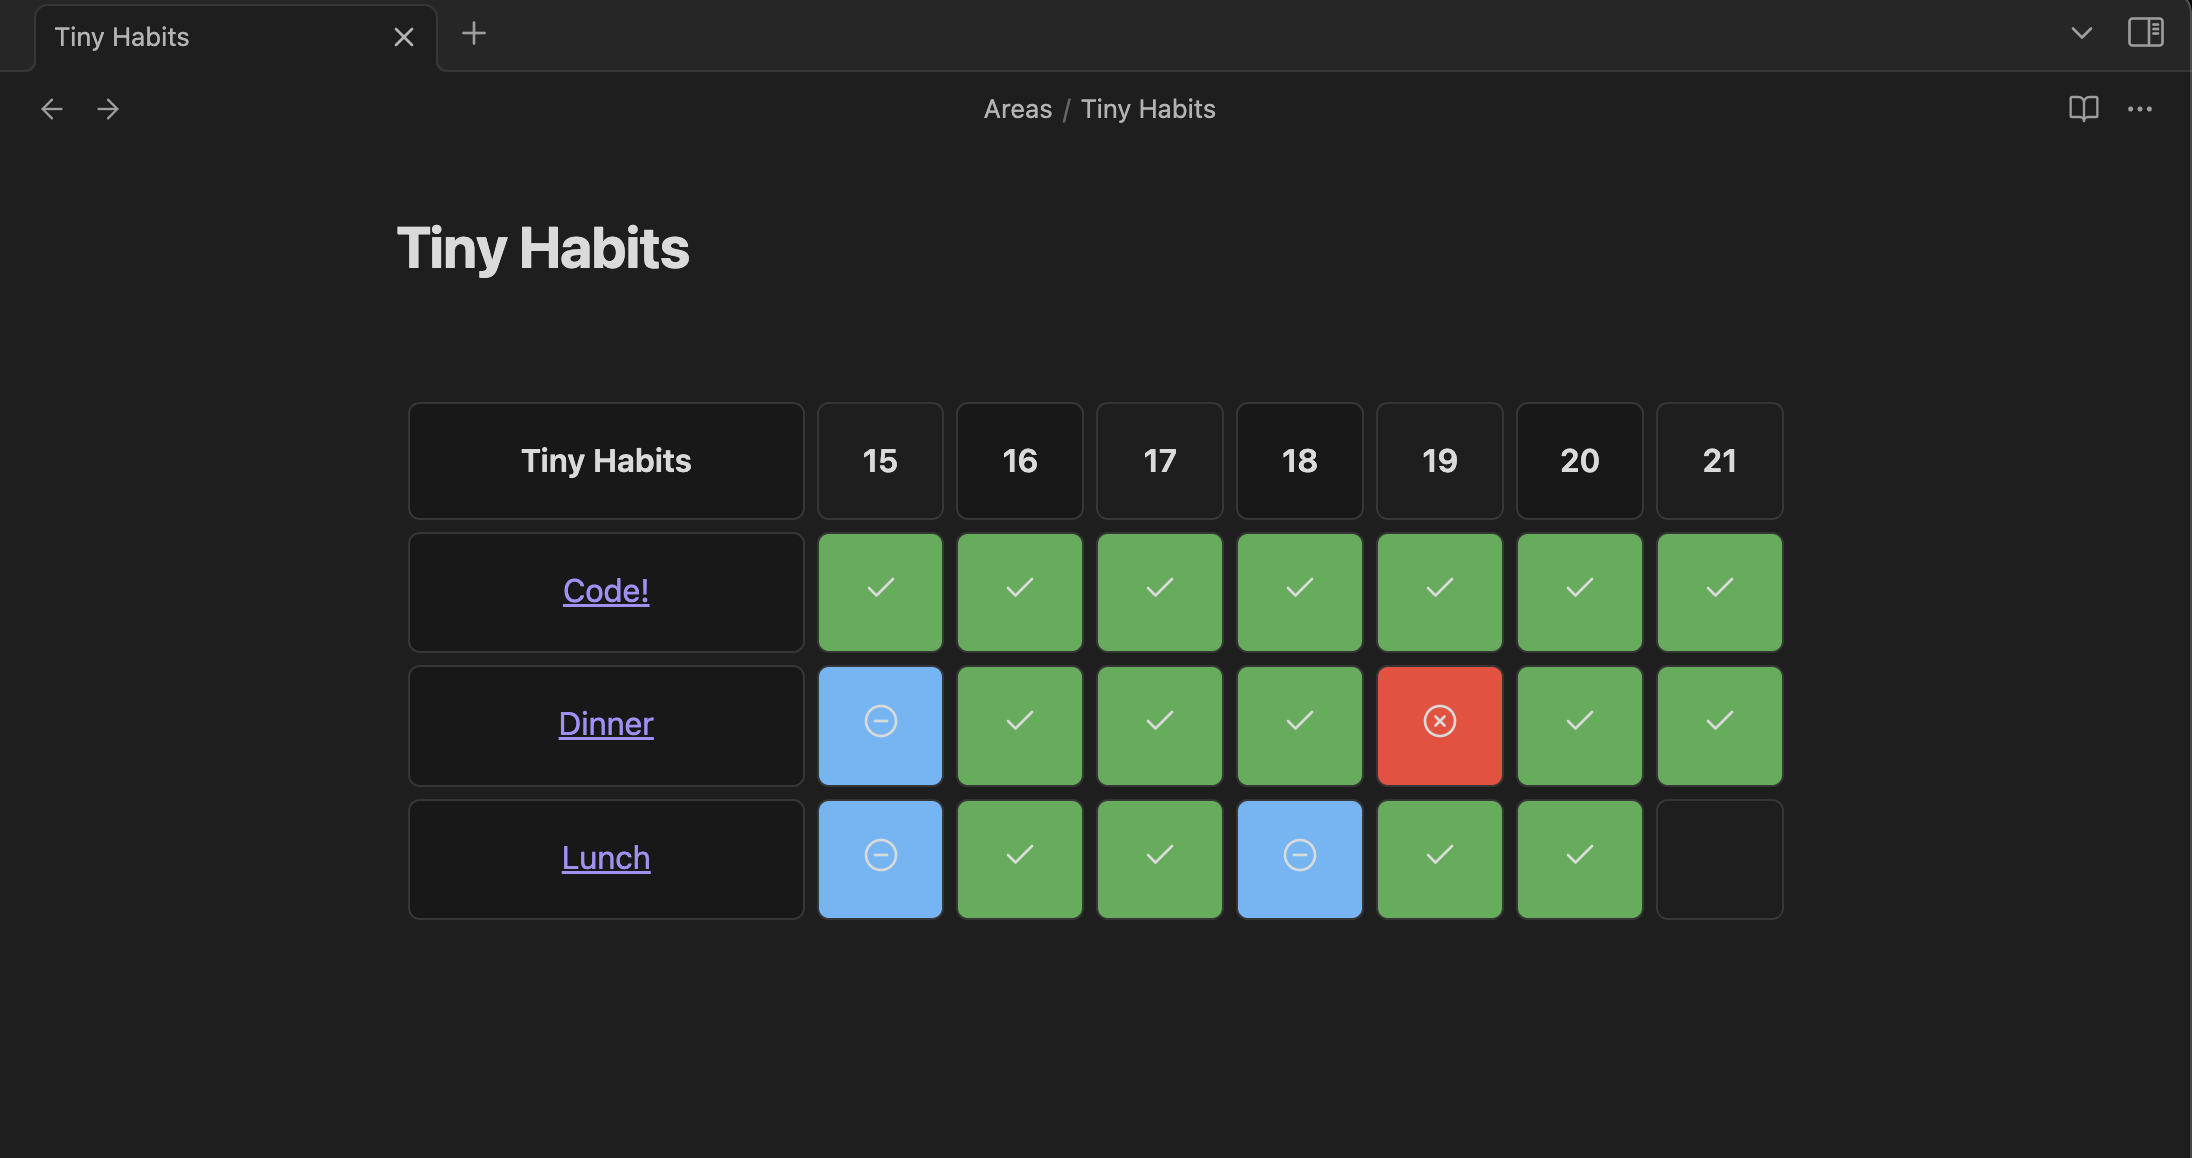
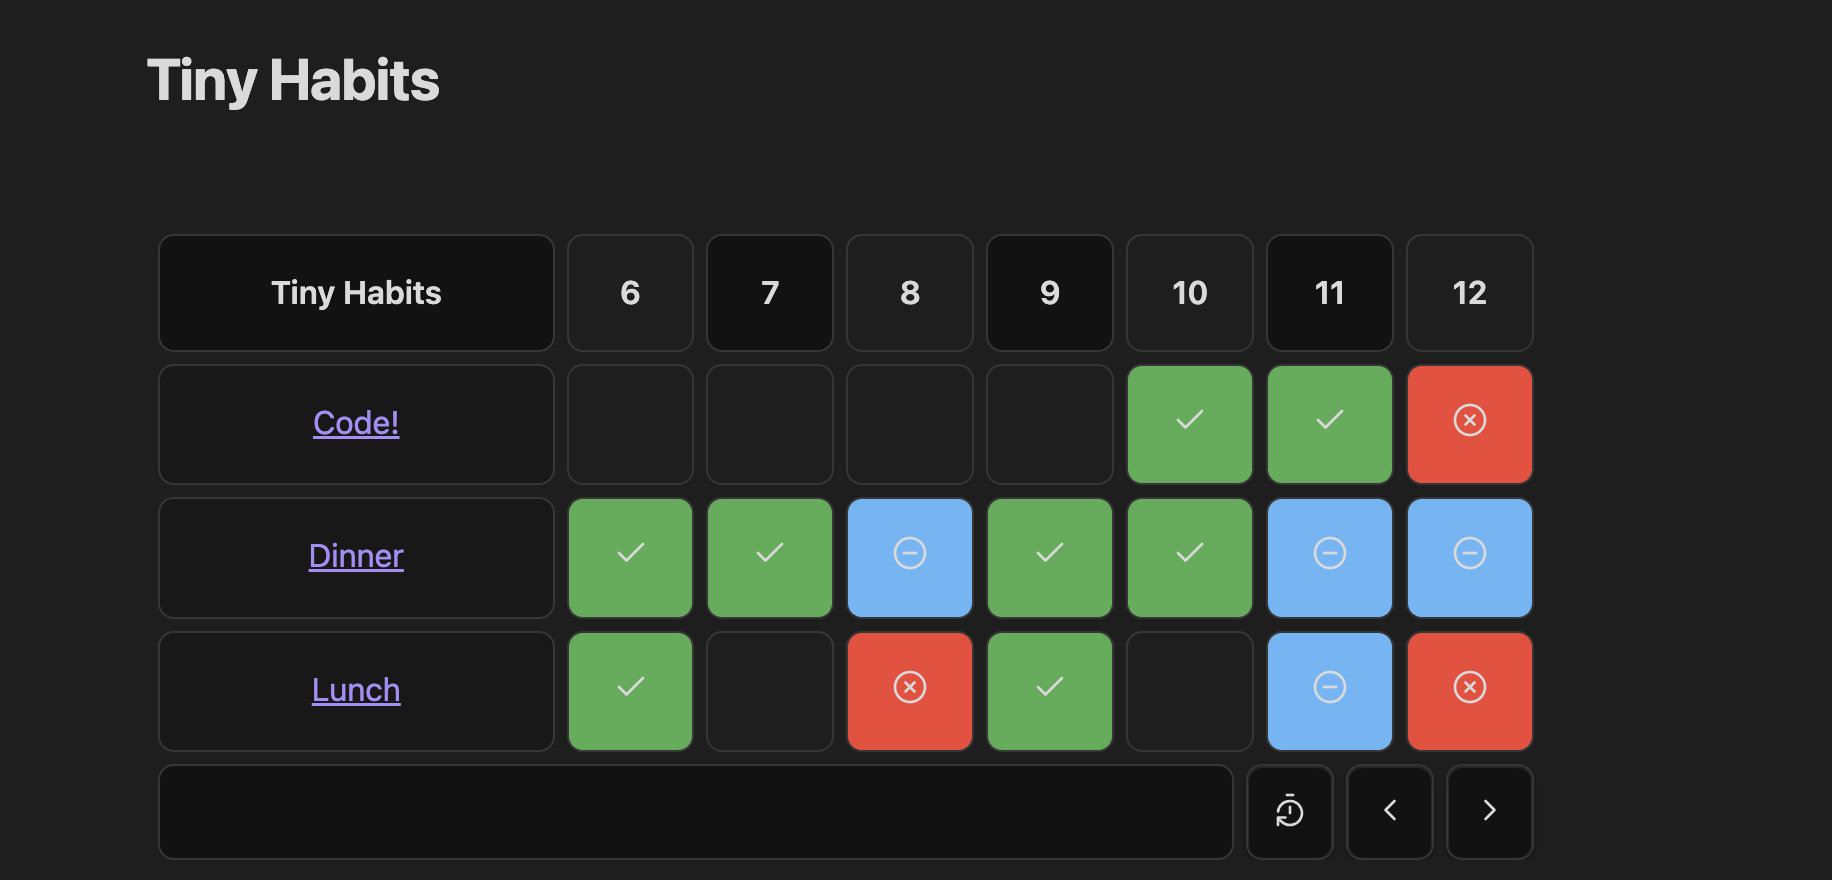
keyboard navigation refactor. Updated Readme. Added button to go back to the present. Made the date control buttons look nice

diff --git a/components/HabitsTable.svelte b/components/HabitsTable.svelte
@@ -6,6 +6,7 @@
 	import type Entry from "models/Entry";
 	import type Habit from "models/Habit";
 	import type { collapseStatuses } from "types";
+	import Icon from "./icons/Icon.svelte";
 
 	interface $Props {
 		updateEntry: (habitPath: Habit["path"], entry: Entry) => void;
@@ -32,6 +33,10 @@
 
 	function moveForward() {
 		currentOffset += 1;
+	}
+
+	function moveToToday() {
+		currentOffset = 0;
 	}
 
 	let collapseStatus: collapseStatuses = $state("init")
@@ -61,8 +66,16 @@
 	/>
 </table>
 <div class="date-controls-container">
-	<button class="date-control" onclick={moveBack}>Back</button>
-	<button class="date-control" onclick={moveForward}>Next</button>
+	<div class="habits-info-section"></div>
+	<button class="date-control" onclick={moveToToday}>
+		<Icon icon="lucide-timer-reset" />
+	</button>
+	<button class="date-control" onclick={moveBack}>
+		<Icon icon="lucide-chevron-left" />
+	</button>
+	<button class="date-control" onclick={moveForward}>
+		<Icon icon="lucide-chevron-right" />
+	</button>
 </div>
 
 <style>
@@ -71,12 +84,38 @@
 		border-collapse: separate;
 		border-spacing: 6px;
 		border-radius: var(--radius-m);
+		margin-bottom: 0;
 	}
 
 	div.date-controls-container {
 		display: flex;
 		justify-content: end;
-		gap: 0.5rem;
+		gap: 6px;
+		padding-left: 6px;
 		padding-right: 6px;
+	}
+
+	div.habits-info-section {
+		width: 100%;
+		height: 48px;
+		display: flex;
+		align-items: center;
+		padding-left: 18px;
+		background-color: rgba(var(--mono-rgb-0), 0.4);
+		border: 1px solid var(--background-modifier-border);
+		border-radius: var(--radius-m);
+	}
+
+	button.date-control {
+		width: 48px;
+		height: 48px;
+		background-color: rgba(var(--mono-rgb-0), 0.4);
+		border: 1px solid var(--background-modifier-border);
+		border-radius: var(--radius-m);
+	}
+
+	button.date-control:hover {
+		background-color: rgba(var(--mono-rgb-0), 0.1);
+		transition: all 0.3s ease-in-out;
 	}
 </style>

diff --git a/components/HabitsTableBody.svelte b/components/HabitsTableBody.svelte
@@ -168,7 +168,7 @@
 	}
 
 	td.entry-cell:focus {
-		outline: 2px solid var(--interactive-accent);
+		outline: 3px solid var(--background-modifier-border);
 		outline-offset: -2px;
 	}
 
@@ -180,7 +180,7 @@
 		opacity: 1;
 		transform: translateY(0);
 		transform-origin: top;
-		animation: expand 0.6s cubic-bezier(0.4, 0, 0.2, 1);
+		animation: expandRow 0.6s cubic-bezier(0.4, 0, 0.2, 1);
 	}
 
 	tbody.collapsed {
@@ -188,10 +188,10 @@
 		transform: translateY(-20px);
 		transform-origin: top;
 		display: none;
-		animation: collapse 0.4s cubic-bezier(0.4, 0, 0.2, 1) forwards;
+		animation: collapseRow 0.4s cubic-bezier(0.4, 0, 0.2, 1) forwards;
 	}
 
-	@keyframes collapse {
+	@keyframes collapseRow {
 		0% {
 			opacity: 1;
 			transform: translateY(0);
@@ -209,7 +209,7 @@
 		}
 	}
 
-	@keyframes expand {
+	@keyframes expandRow {
 		0% {
 			opacity: 0;
 			transform: translateY(-10px);

diff --git a/models/Entry.ts b/models/Entry.ts
@@ -41,7 +41,7 @@ class Entry implements TEntry {
 		this.isEmpty = isEmpty
 	}
 
-	static empty({ habitId, habitPath, date = DateValue.empty() }: { date: DateValue, habitPath: string, habitId: string }): Entry {
+	static empty({ habitId, habitPath, date = DateValue.empty() }: { date?: DateValue, habitPath: string, habitId: string }): Entry {
 		return new Entry({ habitId, habitPath, date, status: Entry.STATUS.unstarted, isEmpty: true });
 	}
 
@@ -56,6 +56,14 @@ class Entry implements TEntry {
 	cycleStatus(): Status {
 		this.status = this.nextStatus()
 		return this.status
+	}
+
+	isCompleted(): boolean {
+		return this.status === Entry.STATUS.completed
+	}
+
+	isPending(): boolean {
+		return this.status !== Entry.STATUS.completed && this.status !== Entry.STATUS.skip
 	}
 }
 export default Entry

diff --git a/models/Habit.ts b/models/Habit.ts
@@ -3,8 +3,9 @@
 // A habit belongs to one or more Habit Groups
 
 import type { THabit } from "types/THabit";
-import type Entry from "./Entry";
+import Entry from "./Entry";
 import type { TFile } from "obsidian";
+import DateValue from "./DateValue";
 
 class Habit implements THabit {
 	id: string;
@@ -27,6 +28,11 @@ class Habit implements THabit {
 		const path = file.path;
 
 		return new Habit({ id, name, path, entries: [] });
+	}
+
+	getTodayEntry(): Entry {
+		const today = new DateValue(new Date())
+		return this.entries?.find(entry =>  today.isSameDay(entry.date)) || Entry.empty({ habitId: this.id, habitPath: this.path })
 	}
 }
 

diff --git a/repositories/HabitRepository.ts b/repositories/HabitRepository.ts
@@ -28,7 +28,7 @@ class HabitRepository implements THabitRepository {
 
 		const files = folder.children.filter((child): child is TFile => child instanceof TFile)
 	
-		return files.sort((a, b) => a.name.localeCompare(b.name));
+		return files.sort((firstFile, secondFile) => firstFile.name.localeCompare(secondFile.name));
 	}
 
 	async buildHabits(file: TFile) {

diff --git a/components/HabitsTableHead.svelte b/components/HabitsTableHead.svelte
@@ -39,9 +39,10 @@
 		width: 100%;
 		padding: 18px 12px;
 		border-radius: var(--radius-m);
-		background-color: rgba(var(--mono-rgb-0), 0.2);
+		background-color: rgba(var(--mono-rgb-0), 0.4);
 		text-align: center;
 	}
+
 	.group-title {
 		cursor: pointer;
 	}

diff --git a/README.md b/README.md
@@ -50,7 +50,11 @@ An Obsidian Plugin built with Svelte to track different habits.
 
 All the entries will be stored inside your notes frontmatter. Everything stays local and within your markdown notes.
 
-Support for habits that are skipped, failed and, of course, completed.
+Features:
+- Mark habits as completed, failed, skipped, or not started.
+- A table of your habit entries, in the beloved format of a heatmap we see in Github or Anki.
+- <a href="#keyboard-support">Keyboard navigation support</a>
+- Navigation both to future and past to see habit entries.
 
 Preview:
 
@@ -68,6 +72,12 @@ Preview:
 	"folderPath": "Areas/Habits/Tiny - Morning"
 }
 ```
+
+You can use as many markdown block as you like on the same file. And if they get too big, you can collapse the by clicking the table header.
+
+## Keyboard support
+
+You can navigate both with arrows and the hjkl keys. To mark a habit entry, you can do so by focusing on the entry and pressing enter.
 
 ## Options
 
